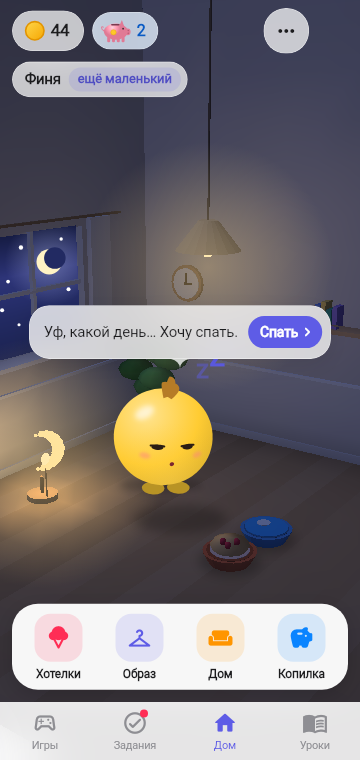
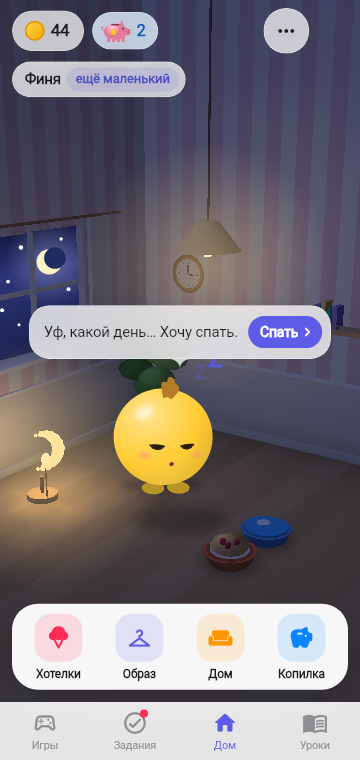
F-052: white and pink striped wallpaper in the bedroom
20 cm vertical stripes on the back and left walls above the panels,
aligned to one grid so they meet at the corner and around the window;
playroom stays green. SA F-052, room3d test, screenshots.

Changed region(s): [[0.2139, 0.0908, 0.5194, 0.1211], [0.4583, 0.3329, 0.5806, 0.3934], [0.55, 0.4539, 0.6111, 0.5145]]

diff --git a/client/lib/ui/room3d/room_builder.dart b/client/lib/ui/room3d/room_builder.dart
@@ -191,7 +191,11 @@ abstract final class RoomBuilder {
     // Задняя стена: панели снизу, стена сверху, срезы сверху и справа.
     final nx = ((x1 + 2) / 0.4).round();
     m.add(Mesh.grid(const Vec3(-2, 0, -2), Vec3(x1 + 2, 0, 0), const Vec3(0, panelTop, 0), panelC, nu: nx, nv: 3));
-    m.add(Mesh.grid(const Vec3(-2, panelTop, -2), Vec3(x1 + 2, 0, 0), Vec3(0, wh - panelTop, 0), wallC, nu: nx, nv: fullBleed ? 10 : 6));
+    if (play) {
+      m.add(Mesh.grid(const Vec3(-2, panelTop, -2), Vec3(x1 + 2, 0, 0), Vec3(0, wh - panelTop, 0), wallC, nu: nx, nv: fullBleed ? 10 : 6));
+    } else {
+      _stripes(m, -2, x1, panelTop, wh, back: true, nv: fullBleed ? 10 : 6); // обои в полоску (F-052)
+    }
     if (!fullBleed) {
       m.add(Mesh.grid(const Vec3(-2 - wall, h, -2 - wall), const Vec3(0, 0, wall), const Vec3(4 + wall, 0, 0), capC, nu: 1, nv: 1));
       m.add(Mesh.grid(const Vec3(2, -slab, -2), const Vec3(0, 0, -wall), const Vec3(0, h + slab, 0), capC, nu: 1, nv: 1));
@@ -204,10 +208,18 @@ abstract final class RoomBuilder {
         m.add(Mesh.grid(Vec3(-2, y0, z1), Vec3(0, 0, -(z1 - z0)), Vec3(0, y1 - y0, 0), c, nu: nu, nv: nv));
     final nzw = ((z1 + 2) / 0.4).round();
     left(-2, z1, 0, panelTop, panelC, nu: nzw);
-    left(-2, z1, panelTop, wy0, wallC, nu: nzw, nv: 1);
-    left(-2, z1, wy1, wh, wallC, nu: nzw, nv: fullBleed ? 8 : 3);
-    left(-2, wz0, wy0, wy1, wallC, nu: 4, nv: 3);
-    left(wz1, z1, wy0, wy1, wallC, nu: fullBleed ? 8 : 4, nv: 3);
+    if (play) {
+      left(-2, z1, panelTop, wy0, wallC, nu: nzw, nv: 1);
+      left(-2, z1, wy1, wh, wallC, nu: nzw, nv: fullBleed ? 8 : 3);
+      left(-2, wz0, wy0, wy1, wallC, nu: 4, nv: 3);
+      left(wz1, z1, wy0, wy1, wallC, nu: fullBleed ? 8 : 4, nv: 3);
+    } else {
+      // Полосы идут по общей сетке, поэтому совпадают в углу и вокруг окна (F-052).
+      _stripes(m, -2, z1, panelTop, wy0, back: false, nv: 1);
+      _stripes(m, -2, z1, wy1, wh, back: false, nv: fullBleed ? 8 : 3);
+      _stripes(m, -2, wz0, wy0, wy1, back: false, nv: 3);
+      _stripes(m, wz1, z1, wy0, wy1, back: false, nv: 3);
+    }
     if (!fullBleed) {
       m.add(Mesh.grid(const Vec3(-2 - wall, h, 2), const Vec3(wall, 0, 0), const Vec3(0, 0, -4 - wall), capC, nu: 1, nv: 1));
       m.add(Mesh.grid(const Vec3(-2 - wall, -slab, 2), const Vec3(wall, 0, 0), const Vec3(0, h + slab, 0), capC, nu: 1, nv: 1));
@@ -320,6 +332,27 @@ abstract final class RoomBuilder {
   static void _pottedPlant(List<Mesh> m, Vec3 at, double s) {
     m.add(Mesh.cylinder(0.08 * s * 2, 0.14 * s * 2, const Color(0xFFF7F1E8), castShadow: false).translated(at));
     m.add(Mesh.sphere(0.12 * s * 2, const Color(0xFF6BA35A), lat: 6, lon: 10, castShadow: false).translated(at + Vec3(0, 0.12 * s * 2, 0)));
+  }
+
+  /// Обои в вертикальную полоску, белую и розовую (F-052). [back] — задняя стена (вдоль x), иначе левая (вдоль z).
+  static const stripe = 0.2;
+  static const stripeLight = Color(0xFFFBF5F2), stripePink = Color(0xFFF4D3DA);
+
+  static void _stripes(List<Mesh> m, double a0, double a1, double y0, double y1, {required bool back, int nv = 3}) {
+    var k = ((a0 + 2) / stripe).floor();
+    while (true) {
+      final s0 = max(a0, -2 + k * stripe), s1 = min(a1, -2 + (k + 1) * stripe);
+      if (s0 >= a1) break;
+      if (s1 > s0 + 1e-6) {
+        final c = k.isEven ? stripeLight : stripePink;
+        m.add(
+          back
+              ? Mesh.grid(Vec3(s0, y0, -2), Vec3(s1 - s0, 0, 0), Vec3(0, y1 - y0, 0), c, nu: 1, nv: nv)
+              : Mesh.grid(Vec3(-2, y0, s1), Vec3(0, 0, -(s1 - s0)), Vec3(0, y1 - y0, 0), c, nu: 1, nv: nv),
+        );
+      }
+      k++;
+    }
   }
 
   static void _pendant(List<Mesh> m, {required bool night, double ceiling = h}) {

diff --git a/client/test/ui/room3d_test.dart b/client/test/ui/room3d_test.dart
@@ -117,6 +117,15 @@ void main() {
       expect(Renderer.render(room, cam, const Size(360, 700), RoomBuilder.lighting(inventory: Inventory.empty)).walls, isNotNull);
     });
 
+    test('bedroom walls have white and pink stripes, playroom does not (F-052)', () {
+      bool has(List<Mesh> ms, Color c) => ms.any((m) => m.color == c && m.layer == MeshLayer.background);
+      final bed = RoomBuilder.build(inventory: Inventory.empty);
+      expect(has(bed, RoomBuilder.stripeLight), isTrue);
+      expect(has(bed, RoomBuilder.stripePink), isTrue);
+      final play = RoomBuilder.build(inventory: Inventory.empty, room: 2);
+      expect(has(play, RoomBuilder.stripePink), isFalse);
+    });
+
     test('full bowls add food and water to the room (F-027)', () {
       int bowls(Bowls b, {int room = 1}) => RoomBuilder.build(inventory: Inventory.empty, room: room, bowls: b).length;
       final empty = bowls(const Bowls(food: false, water: false));

diff --git a/docs/work/ui/F-052_STRIPED_WALLPAPER_SA_SPEC.md b/docs/work/ui/F-052_STRIPED_WALLPAPER_SA_SPEC.md
@@ -1,0 +1,33 @@
+# Обои в полоску в спальне — системная спецификация (SA)
+
+| Поле | Значение |
+|------|----------|
+| **ID** | F-052 |
+| **Назначение** | Стены спальни выше панелей — в вертикальную бело-розовую полоску, чтобы комната не была скучной |
+| **Репозиторий** | `Pet_Finni_hackathon` |
+| **Источник** | Запрос Егора 2026-09-25: «полосатые обои, бело-розовые, чтобы не так скучно было» |
+| **Статус** | Реализовано 2026-09-25 |
+| **Связанные артефакты** | F-019 (3D-комната), F-048 (комната во весь экран), F-051 (слой стены) |
+
+---
+
+## 3. Бизнес-требования
+
+| ID | Требование | Приоритет |
+|----|------------|-----------|
+| BR-01 | Задняя и левая стены спальни выше панелей — вертикальные полосы шириной 20 см: светлая `#FBF5F2` и розовая `#F4D3DA` | Must |
+| BR-02 | Полосы идут по общей сетке от угла комнаты: совпадают в углу, вокруг окна и между кусками стены | Must |
+| BR-03 | Панели снизу, плинтус и молдинг не меняются; игровая остаётся зелёной | Must |
+| BR-04 | Свет по времени суток применяется к обоям как к стене (вечер и ночь приглушают) | Must |
+| BR-05 | Картины, часы и фото висят поверх обоев в слое стены (F-051) | Must |
+
+## 8. API
+
+```dart
+RoomBuilder.stripe = 0.2; stripeLight, stripePink
+RoomBuilder._stripes(m, a0, a1, y0, y1, back: true|false, nv)
+```
+
+## 9. Тестирование
+
+`room3d_test`: спальня содержит меши обоих цветов полос, игровая — нет; бюджет треугольников соблюдён.

diff --git a/docs/work/README.md b/docs/work/README.md
@@ -67,6 +67,7 @@
 | F-048 | Комната во весь экран | [ui/F-048](ui/F-048_FULL_SCREEN_ROOM_SA_SPEC.md) | `ui/room3d/room_builder.dart`, `ui/room/room_scene.dart`, `ui/tabs/home_tab.dart` | `room3d_test` |
 | F-049 | CI: релизный APK в GitHub Actions | [ops/F-049](ops/F-049_CI_RELEASE_APK_SA_SPEC.md) | `.github/workflows/android-apk.yml`, `android/app/build.gradle.kts` | запуск Actions |
 | F-051 | Качество комнаты, повороты героя, места одежды | [ui/F-051](ui/F-051_ROOM_QUALITY_WEAR_SLOTS_SA_SPEC.md) | `ui/room3d/*`, `ui/mascot/mascot_view.dart`, `game/game_controller.dart`, `ui/tabs/home_tab.dart` | `room3d_test`, `game_controller_test`, `content_test` |
+| F-052 | Обои в полоску | [ui/F-052](ui/F-052_STRIPED_WALLPAPER_SA_SPEC.md) | `ui/room3d/room_builder.dart` | `room3d_test` |
 
 **Пайплайн:** brainstorming → design spec + SA → writing-plans (одна подсистема) → TDD → проверка.  
 См. `.cursor/rules/delivery-workflow.mdc` и `superpowers-workflow.mdc`.
